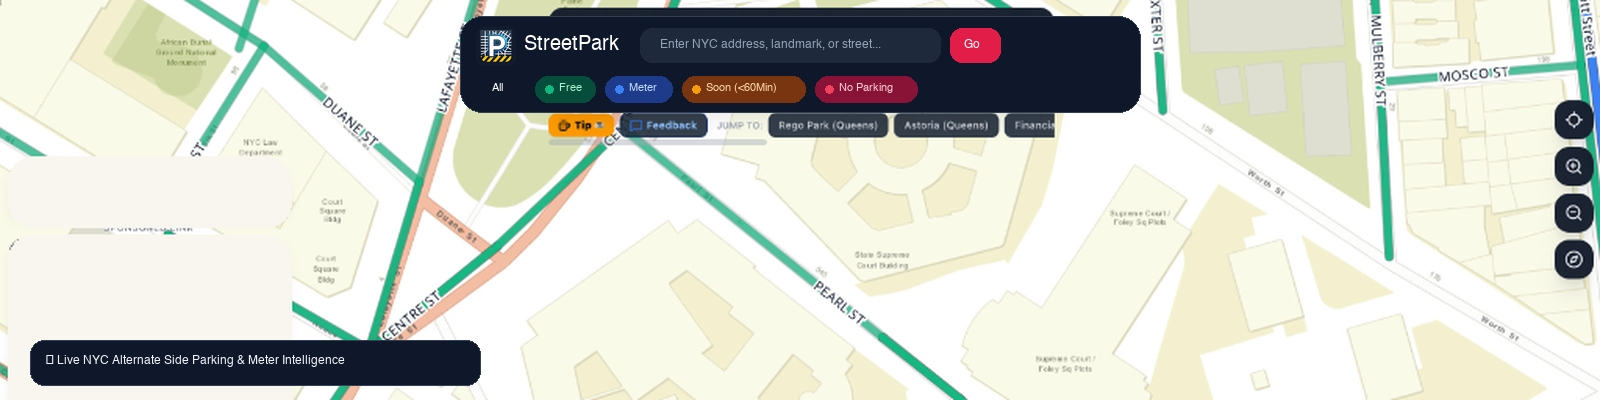
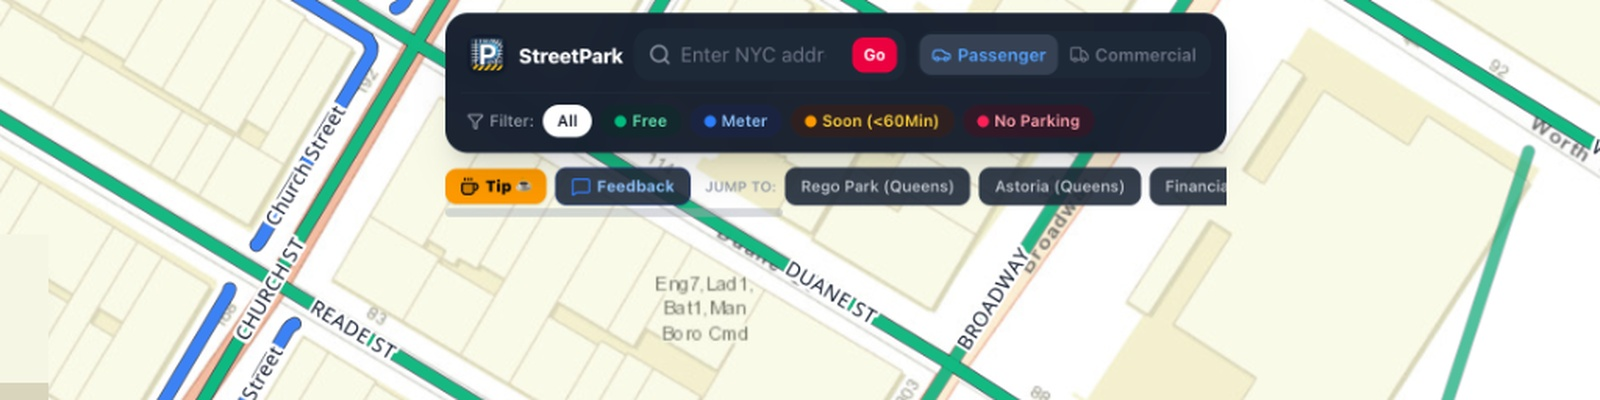
feat(meter): streamline meter actions to Copy Zone and Open ParkNYC buttons

diff --git a/src/components/BottomSheet.tsx b/src/components/BottomSheet.tsx
@@ -294,30 +294,31 @@ export const BottomSheet: React.FC<BottomSheetProps> = ({
 
               {/* ParkNYC: Mobile App Quick Launch & Store Links */}
               <div className="space-y-2 pt-1">
-                {/* 1-tap Copy Zone Button */}
-                <button
-                  type="button"
-                  onClick={() => handleCopyZone(segment.meterInfo!.payByCell)}
-                  className={`w-full py-2.5 px-3 rounded-xl font-bold text-xs flex items-center justify-center space-x-2 transition-all active:scale-[0.98] border shadow-xs ${
-                    copiedZone
-                      ? 'bg-emerald-50 dark:bg-emerald-950/40 text-emerald-700 dark:text-emerald-300 border-emerald-300 dark:border-emerald-700'
-                      : 'bg-white/90 dark:bg-gray-800/90 text-blue-700 dark:text-blue-300 hover:bg-blue-50/80 dark:hover:bg-gray-700/80 border-blue-200 dark:border-blue-800'
-                  }`}
-                >
-                  {copiedZone ? (
-                    <>
-                      <Check className="w-3.5 h-3.5 text-emerald-600 dark:text-emerald-400" />
-                      <span>Zone {segment.meterInfo.payByCell} Copied to Clipboard!</span>
-                    </>
-                  ) : (
-                    <>
-                      <Copy className="w-3.5 h-3.5 text-blue-600 dark:text-blue-400" />
-                      <span>Copy Zone #{segment.meterInfo.payByCell}</span>
-                    </>
-                  )}
-                </button>
+                <div className="grid grid-cols-2 gap-2">
+                  {/* 1-tap Copy Zone Button */}
+                  <button
+                    type="button"
+                    onClick={() => handleCopyZone(segment.meterInfo!.payByCell)}
+                    className={`py-2.5 px-3 rounded-xl font-bold text-xs flex items-center justify-center space-x-1.5 transition-all active:scale-[0.98] border shadow-xs ${
+                      copiedZone
+                        ? 'bg-emerald-50 dark:bg-emerald-950/40 text-emerald-700 dark:text-emerald-300 border-emerald-300 dark:border-emerald-700'
+                        : 'bg-white/95 dark:bg-gray-800/95 text-blue-700 dark:text-blue-300 hover:bg-blue-50/80 dark:hover:bg-gray-700/80 border-blue-300 dark:border-blue-700'
+                    }`}
+                  >
+                    {copiedZone ? (
+                      <>
+                        <Check className="w-3.5 h-3.5 text-emerald-600 dark:text-emerald-400 shrink-0" />
+                        <span>Zone Copied!</span>
+                      </>
+                    ) : (
+                      <>
+                        <Copy className="w-3.5 h-3.5 text-blue-600 dark:text-blue-400 shrink-0" />
+                        <span>Copy Zone #{segment.meterInfo.payByCell}</span>
+                      </>
+                    )}
+                  </button>
 
-                <div className="flex items-center gap-2">
+                  {/* Open ParkNYC App */}
                   <a
                     href={
                       typeof navigator !== 'undefined' && /Android/i.test(navigator.userAgent)
@@ -326,27 +327,16 @@ export const BottomSheet: React.FC<BottomSheetProps> = ({
                     }
                     target="_blank"
                     rel="noopener noreferrer"
-                    className="flex-1 py-2.5 px-3 rounded-xl bg-blue-600 hover:bg-blue-700 text-white font-semibold text-xs flex items-center justify-center space-x-1.5 transition-all shadow-md shadow-blue-600/20 active:scale-[0.98]"
+                    className="py-2.5 px-3 rounded-xl bg-blue-600 hover:bg-blue-700 text-white font-semibold text-xs flex items-center justify-center space-x-1.5 transition-all shadow-md shadow-blue-600/20 active:scale-[0.98]"
                     title="Open ParkNYC on App Store"
                   >
-                    <Smartphone className="w-3.5 h-3.5" />
-                    <span>Open ParkNYC App</span>
-                  </a>
-
-                  <a
-                    href="https://parknyc.org/"
-                    target="_blank"
-                    rel="noopener noreferrer"
-                    className="py-2.5 px-3 rounded-xl bg-gray-100 hover:bg-gray-200 dark:bg-gray-800 dark:hover:bg-gray-700 text-gray-700 dark:text-gray-200 font-semibold text-xs flex items-center justify-center space-x-1 transition-all border border-gray-200 dark:border-gray-700 shrink-0"
-                    title="Pay Online at ParkNYC.org"
-                  >
-                    <span>Pay Online</span>
-                    <ExternalLink className="w-3 h-3" />
+                    <Smartphone className="w-3.5 h-3.5 shrink-0" />
+                    <span>Open ParkNYC</span>
                   </a>
                 </div>
 
                 <p className="text-[10px] text-gray-500 dark:text-gray-400 text-center leading-tight">
-                  Tap to copy Zone <span className="font-bold text-gray-800 dark:text-gray-200 font-mono text-xs">{segment.meterInfo.payByCell}</span>, then paste in ParkNYC or pay online.
+                  Zone <span className="font-bold text-gray-800 dark:text-gray-200 font-mono text-xs">{segment.meterInfo.payByCell}</span> • Copy zone number and open ParkNYC to pay.
                 </p>
               </div>
             </div>
